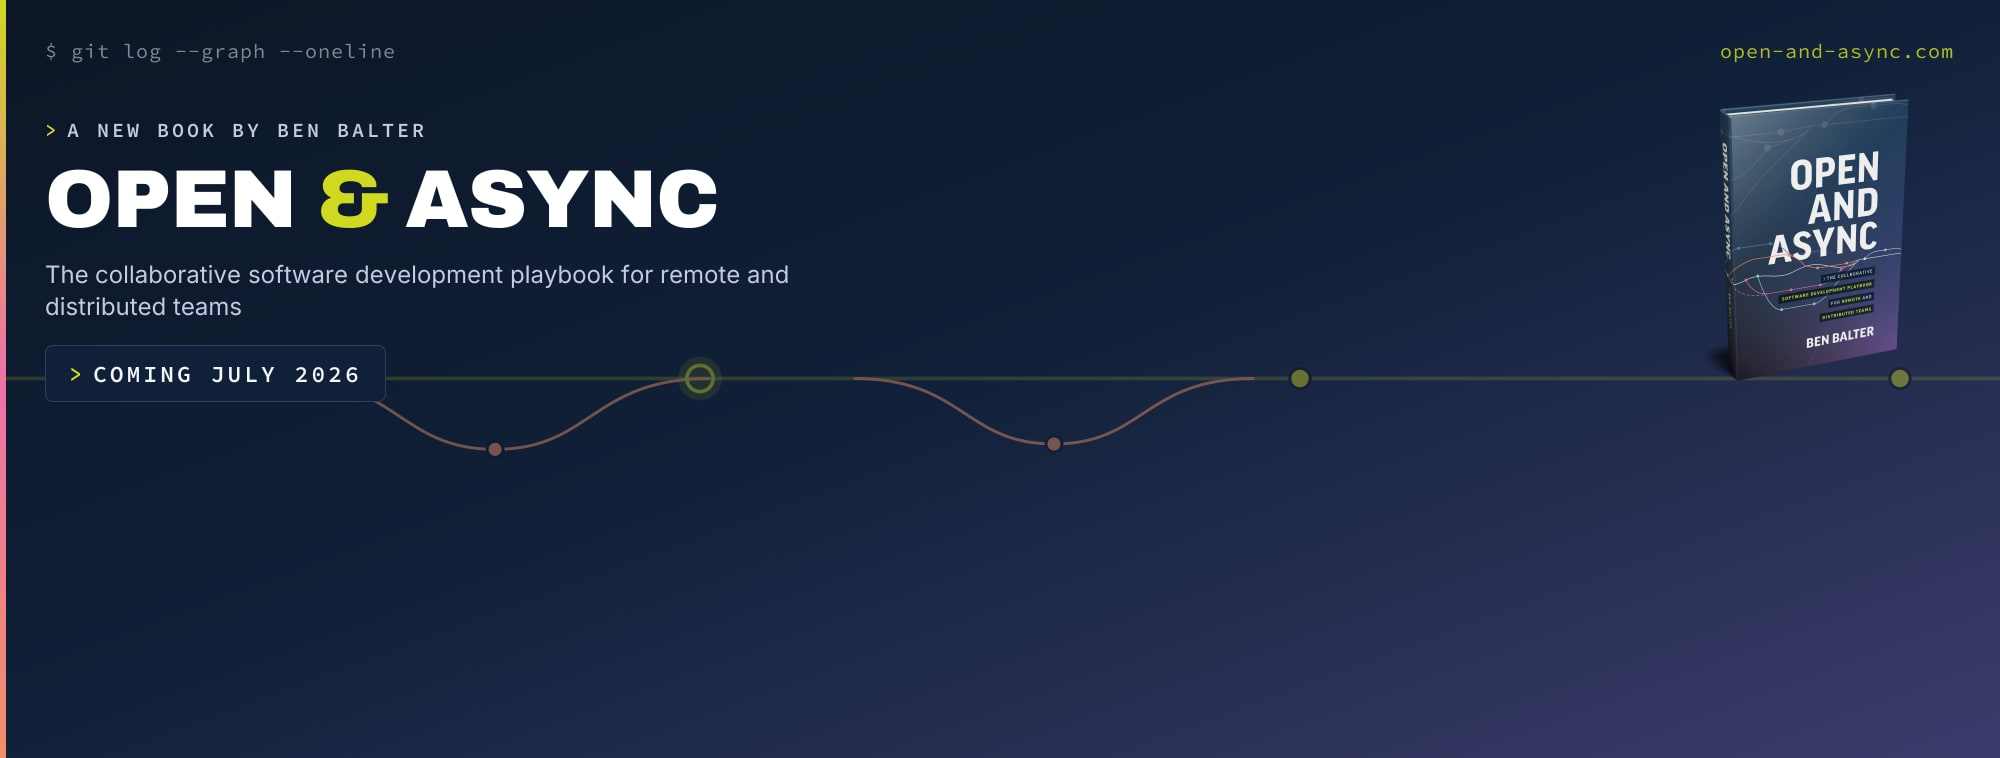
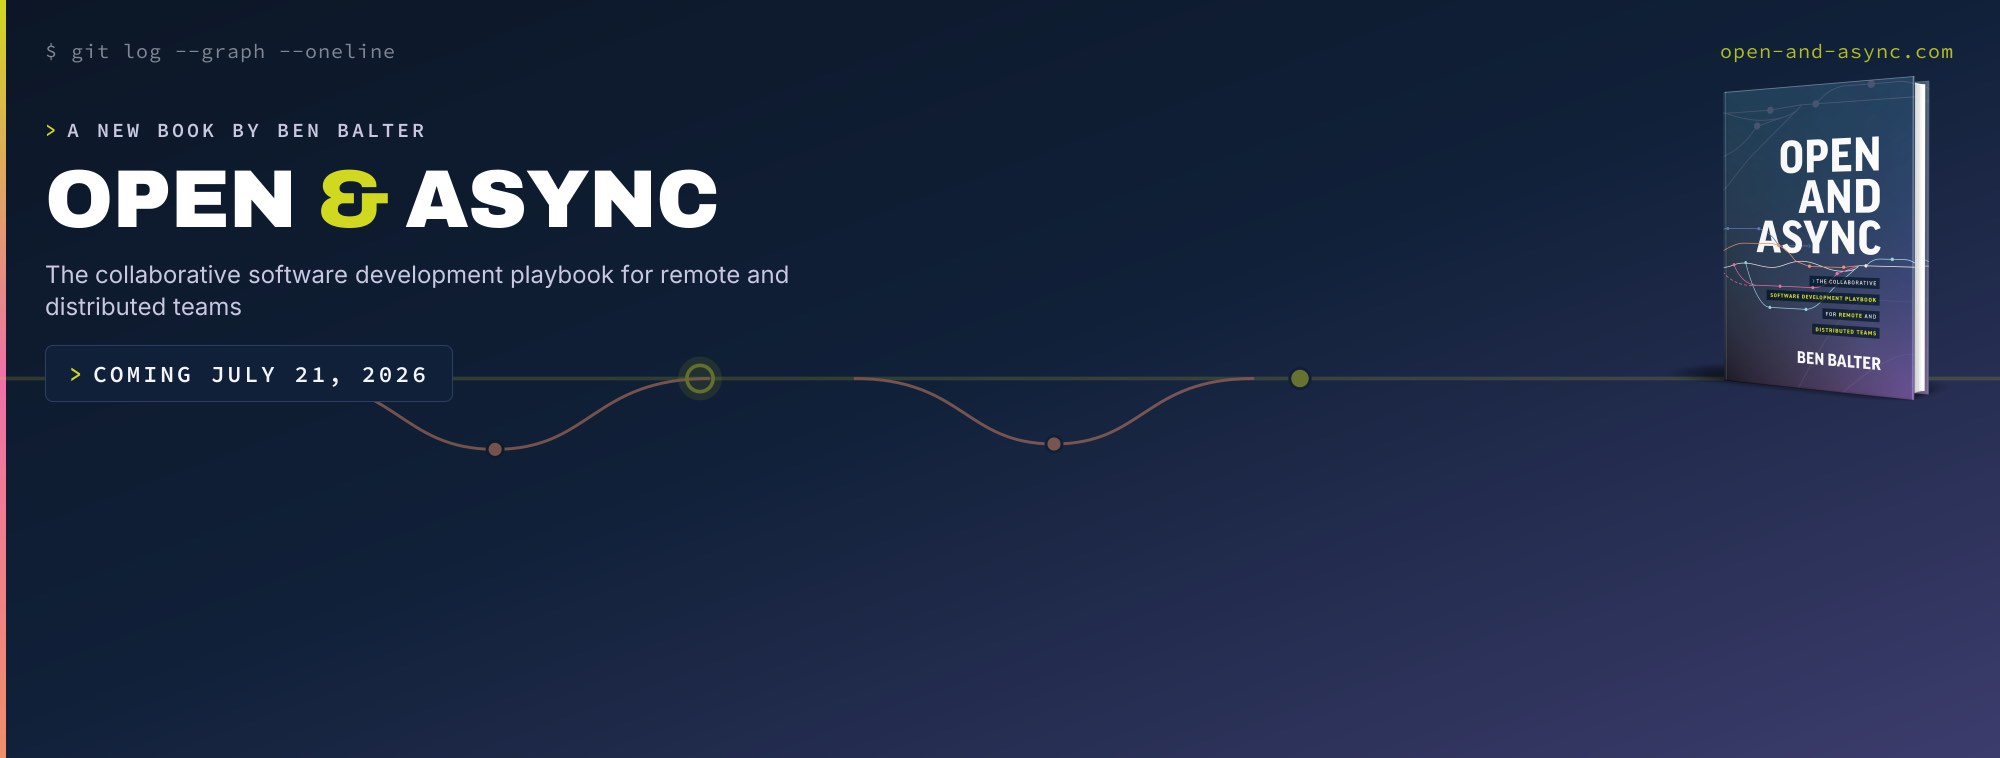
Update book launch date to July 21, 2026
Open & Async has a locked launch day. Update bookLaunch (drives the BookCta
callout) and regenerate the .hero-unit header image to match.

Changed region(s): [[0.837, 0.091, 0.992, 0.5462], [0.155, 0.4855, 0.217, 0.5158]]

diff --git a/src/config.ts b/src/config.ts
@@ -69,7 +69,7 @@ export const siteConfig = {
   bookUrl: 'https://open-and-async.com/',
   bookTitle: 'Open & Async',
   bookDescription: 'The collaborative software development playbook for remote and distributed teams',
-  bookLaunch: 'July 2026',
+  bookLaunch: 'July 21, 2026',
 
   // About page metadata
   aboutDescription: 'Ben Balter is a writer, open source developer, and attorney whose open source projects have hundreds of millions of downloads. Formerly Director of Hubber Enablement at GitHub.',